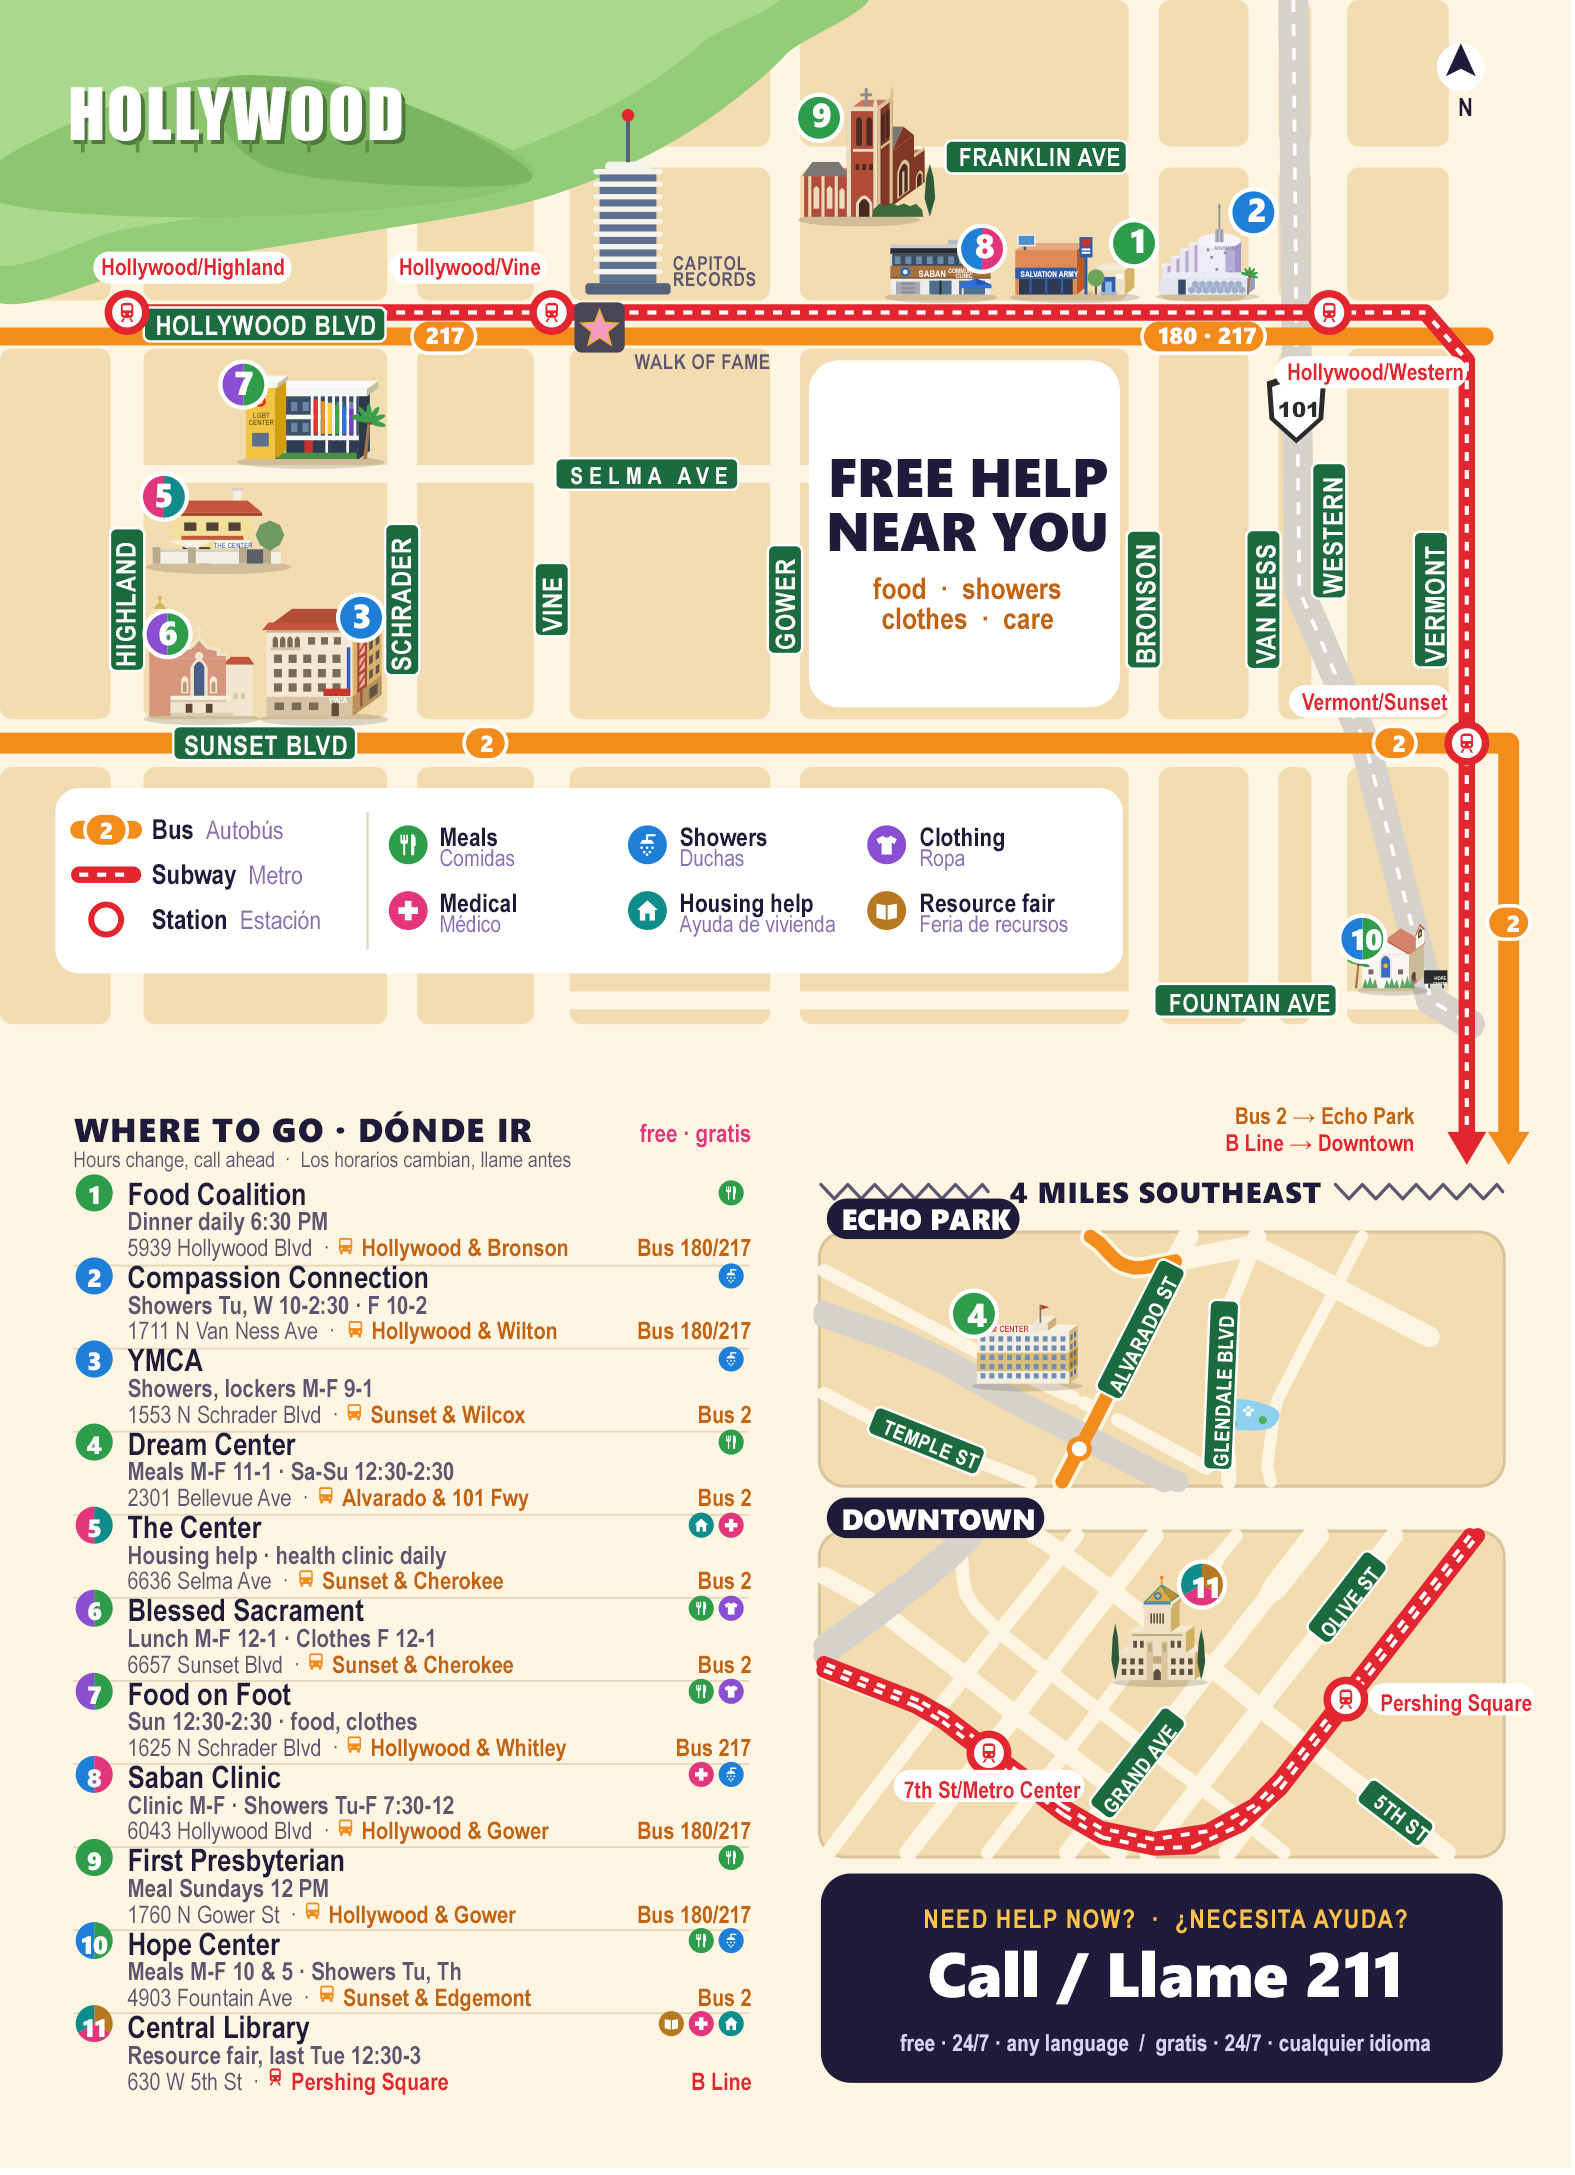
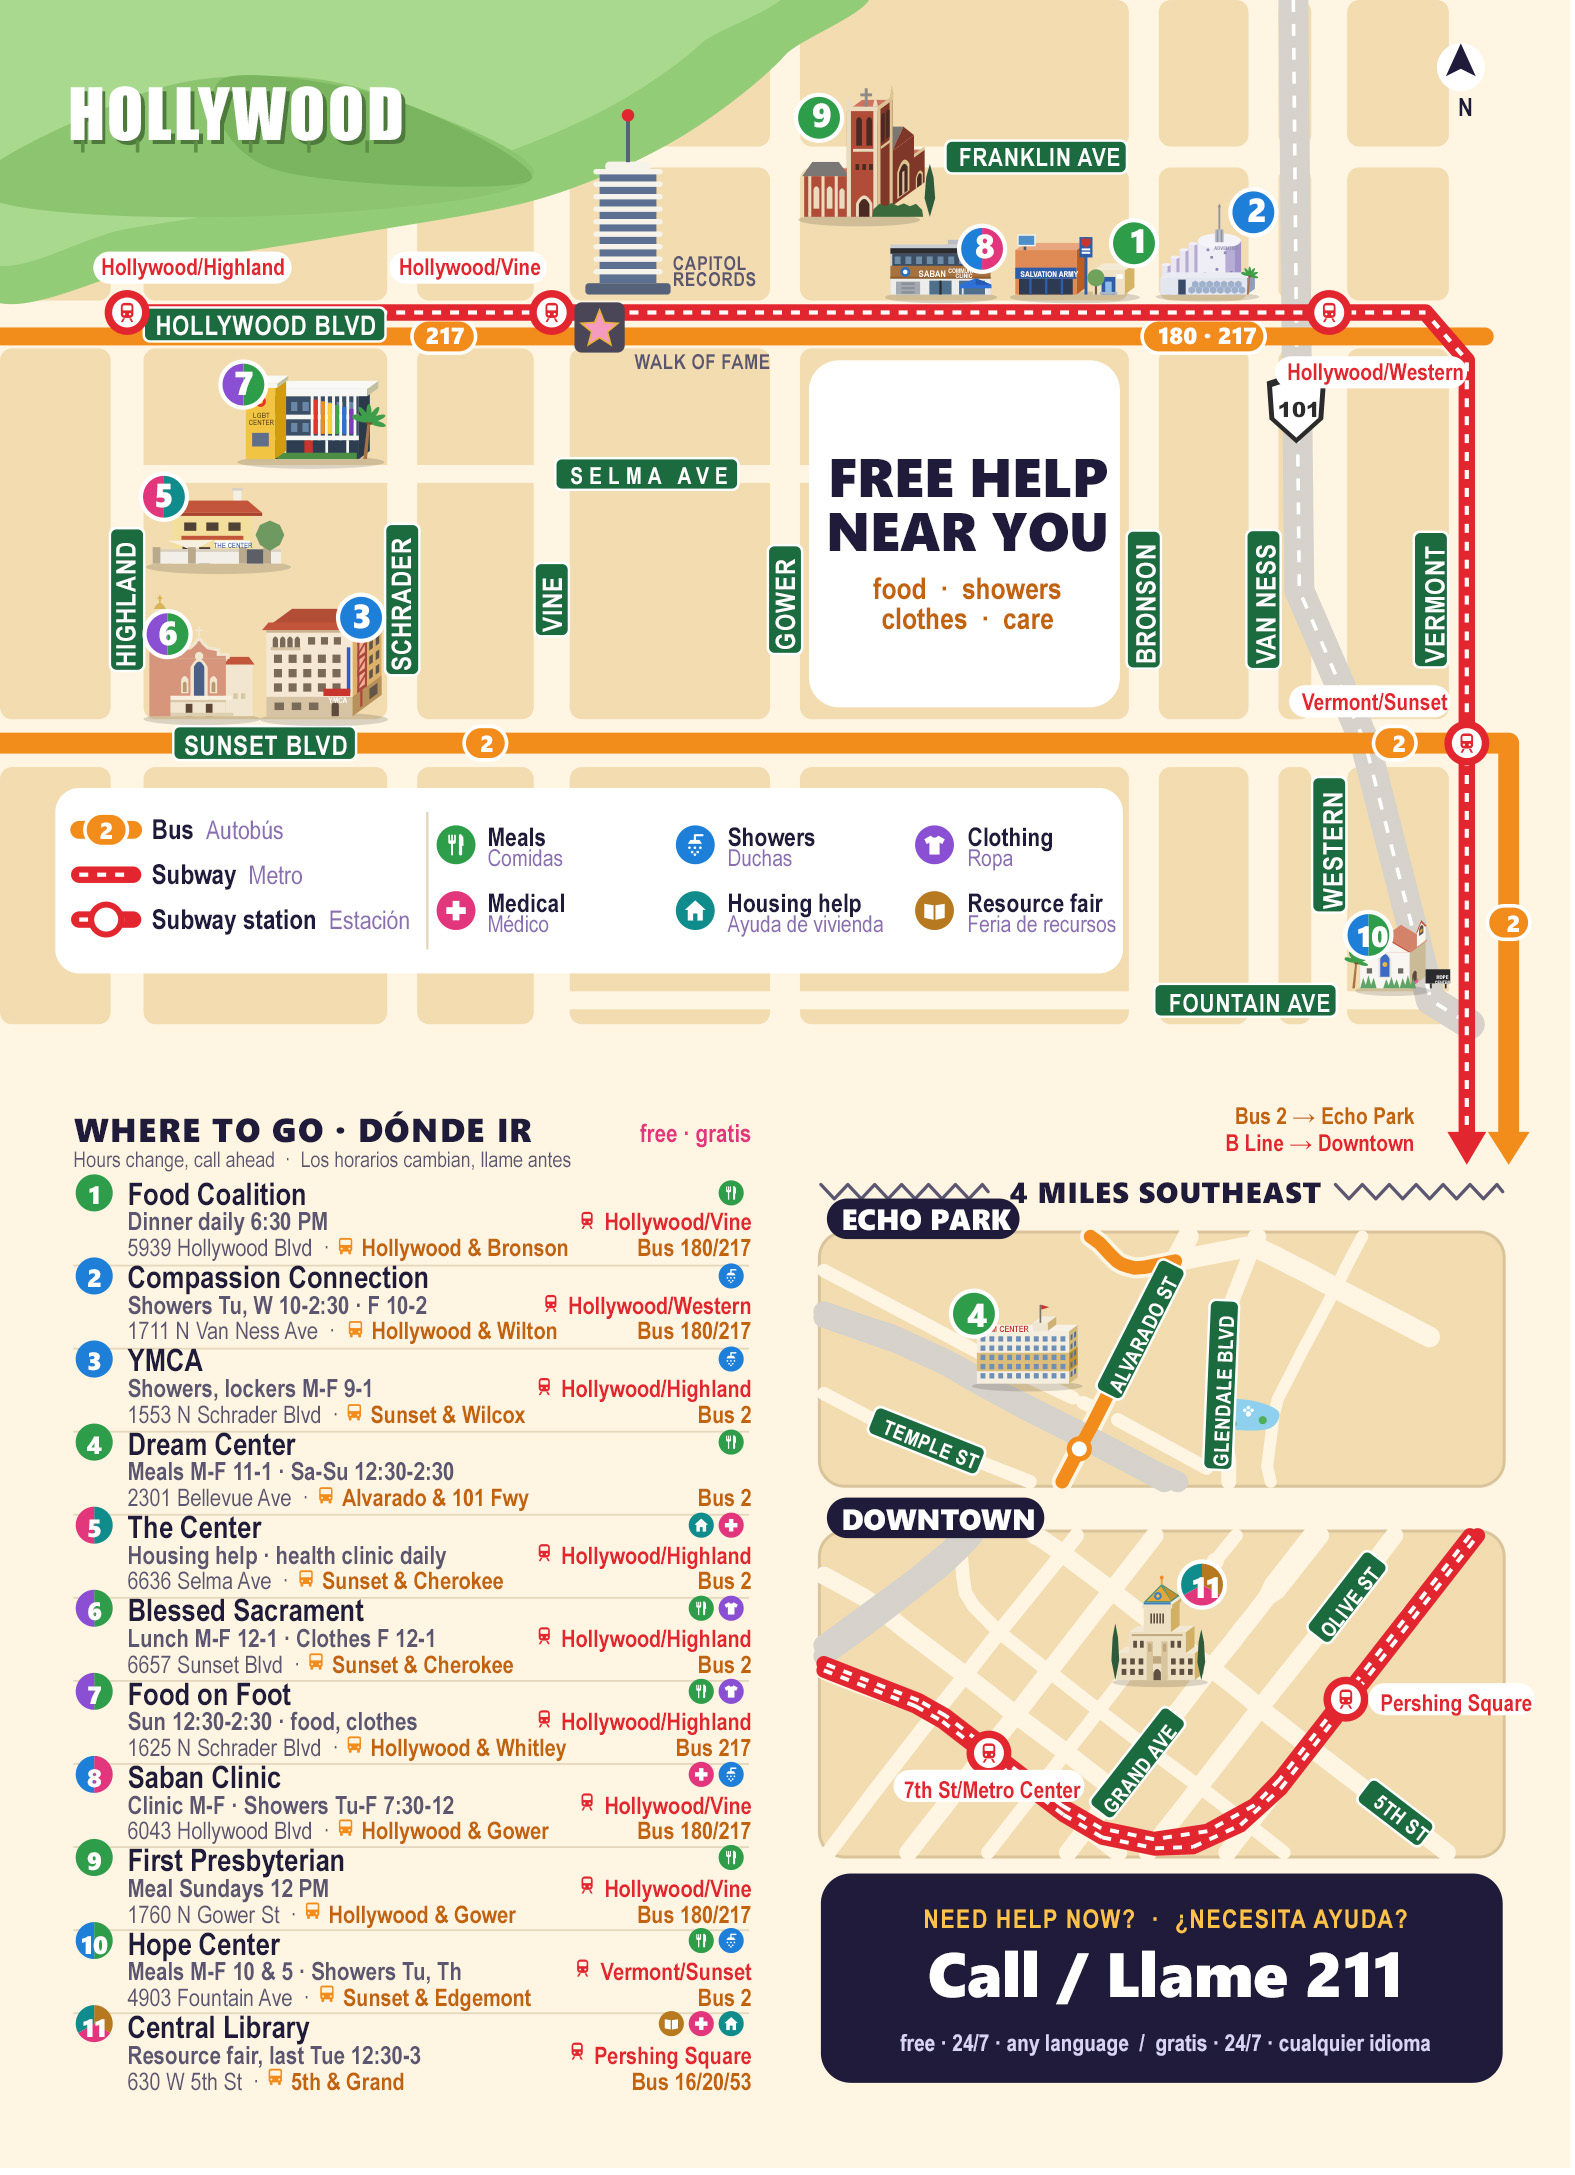
Map v8.2: subway station key, Western label, bigger Hope Center, bus + subway per place

diff --git a/index.html b/index.html
@@ -39,77 +39,77 @@ footer{color:var(--muted);font-size:13px;text-align:center;margin-top:24px}
   <div class="chips"><span class="chip" style="--c:#2E9D4A">Meals</span></div>
   <p class="hours">Dinner M-F 6:30-8 PM; Sat-Sun 6:30-7:30 PM</p>
   <p class="addr">5939 Hollywood Blvd, LA 90028</p>
-  <p class="stop">Nearest stop: <b>Bus 180/217 · Hollywood &amp; Bronson</b></p>
+  <p class="stop">Bus: <b>Hollywood &amp; Bronson</b> (Bus 180/217)</p><p class="stop">Subway: <b>Hollywood/Vine</b> (B Line, about 10 min walk)</p>
   <div class="btns"><a class="btn" href="https://www.google.com/maps/dir/?api=1&destination=5939%20Hollywood%20Blvd%2C%20Los%20Angeles%2C%20CA%2090028" target="_blank" rel="noopener">Directions</a><a class="btn" href="tel:3234622032">Call (323) 462-2032</a><a class="btn ghost" href="https://hofoco.org" target="_blank" rel="noopener">Website</a></div>
 </article><article class="place" id="p2">
   <h3><span class="num" style="background:#1E7FD8">2</span>Compassion Connection</h3>
   <div class="chips"><span class="chip" style="--c:#1E7FD8">Showers</span></div>
   <p class="hours">Showers Tue-Wed 10-2:30, Fri 10-2</p>
   <p class="addr">1711 N Van Ness Ave, LA 90028</p>
-  <p class="stop">Nearest stop: <b>Bus 180/217 · Hollywood &amp; Wilton</b></p>
+  <p class="stop">Bus: <b>Hollywood &amp; Wilton</b> (Bus 180/217)</p><p class="stop">Subway: <b>Hollywood/Western</b> (B Line, about 10 min walk)</p>
   <div class="btns"><a class="btn" href="https://www.google.com/maps/dir/?api=1&destination=1711%20N%20Van%20Ness%20Ave%2C%20Los%20Angeles%2C%20CA%2090028" target="_blank" rel="noopener">Directions</a><a class="btn ghost" href="https://compassionconnections.org" target="_blank" rel="noopener">Website</a></div>
 </article><article class="place" id="p3">
   <h3><span class="num" style="background:#1E7FD8">3</span>Hollywood YMCA</h3>
   <div class="chips"><span class="chip" style="--c:#1E7FD8">Showers</span></div>
   <p class="hours">Showers, bathrooms, lockers M-F 9-1</p>
   <p class="addr">1553 N Schrader Blvd, LA 90028</p>
-  <p class="stop">Nearest stop: <b>Bus 2 · Sunset &amp; Wilcox</b></p>
+  <p class="stop">Bus: <b>Sunset &amp; Wilcox</b> (Bus 2)</p><p class="stop">Subway: <b>Hollywood/Highland</b> (B Line, about 10 min walk)</p>
   <div class="btns"><a class="btn" href="https://www.google.com/maps/dir/?api=1&destination=1553%20N%20Schrader%20Blvd%2C%20Los%20Angeles%2C%20CA%2090028" target="_blank" rel="noopener">Directions</a><a class="btn" href="tel:3234674161">Call (323) 467-4161</a><a class="btn ghost" href="https://ymcala.org" target="_blank" rel="noopener">Website</a></div>
 </article><article class="place" id="p4">
   <h3><span class="num" style="background:#2E9D4A">4</span>The Dream Center</h3>
   <div class="chips"><span class="chip" style="--c:#2E9D4A">Meals</span></div>
   <p class="hours">Meals M-F 11-1, Sat-Sun 12:30-2:30</p>
   <p class="addr">2301 Bellevue Ave, LA 90026</p>
-  <p class="stop">Nearest stop: <b>Bus 2 · Alvarado &amp; 101 Fwy</b></p>
+  <p class="stop">Bus: <b>Alvarado &amp; 101 Fwy</b> (Bus 2)</p>
   <div class="btns"><a class="btn" href="https://www.google.com/maps/dir/?api=1&destination=2301%20Bellevue%20Ave%2C%20Los%20Angeles%2C%20CA%2090026" target="_blank" rel="noopener">Directions</a><a class="btn" href="tel:2132737014">Call (213) 273-7014</a></div>
 </article><article class="place" id="p5">
   <h3><span class="num" style="background:linear-gradient(90deg, #0F8C8C 0% 50%, #E2367C 50% 100%)">5</span>The Center in Hollywood</h3>
   <div class="chips"><span class="chip" style="--c:#0F8C8C">Housing help</span><span class="chip" style="--c:#E2367C">Medical</span></div>
   <p class="hours">Housing resources, daily health clinic</p>
   <p class="addr">6636 Selma Ave, LA 90028</p>
-  <p class="stop">Nearest stop: <b>Bus 2 · Sunset &amp; Cherokee</b></p>
+  <p class="stop">Bus: <b>Sunset &amp; Cherokee</b> (Bus 2)</p><p class="stop">Subway: <b>Hollywood/Highland</b> (B Line, about 8 min walk)</p>
   <div class="btns"><a class="btn" href="https://www.google.com/maps/dir/?api=1&destination=6636%20Selma%20Ave%2C%20Los%20Angeles%2C%20CA%2090028" target="_blank" rel="noopener">Directions</a><a class="btn" href="tel:3233783225">Call (323) 378-3225</a><a class="btn ghost" href="https://thecenterinhollywood.org" target="_blank" rel="noopener">Website</a></div>
 </article><article class="place" id="p6">
   <h3><span class="num" style="background:linear-gradient(90deg, #2E9D4A 0% 50%, #8A4FD3 50% 100%)">6</span>Blessed Sacrament: Genevieve&#x27;s Garden + Project Ropa</h3>
   <div class="chips"><span class="chip" style="--c:#2E9D4A">Meals</span><span class="chip" style="--c:#8A4FD3">Clothing</span></div>
   <p class="hours">Lunch M-F 12-1; clothing and hygiene Fri 12-1</p>
   <p class="addr">6657 Sunset Blvd, LA 90028</p>
-  <p class="stop">Nearest stop: <b>Bus 2 · Sunset &amp; Cherokee</b></p>
+  <p class="stop">Bus: <b>Sunset &amp; Cherokee</b> (Bus 2)</p><p class="stop">Subway: <b>Hollywood/Highland</b> (B Line, about 8 min walk)</p>
   <div class="btns"><a class="btn" href="https://www.google.com/maps/dir/?api=1&destination=6657%20Sunset%20Blvd%2C%20Los%20Angeles%2C%20CA%2090028" target="_blank" rel="noopener">Directions</a><a class="btn" href="tel:3235002766">Call (323) 500-2766</a></div>
 </article><article class="place" id="p7">
   <h3><span class="num" style="background:linear-gradient(90deg, #2E9D4A 0% 50%, #8A4FD3 50% 100%)">7</span>Food on Foot</h3>
   <div class="chips"><span class="chip" style="--c:#2E9D4A">Meals</span><span class="chip" style="--c:#8A4FD3">Clothing</span></div>
   <p class="hours">Sundays 12:30-2:30: food, clothing, hygiene</p>
   <p class="addr">1625 N Schrader Blvd, LA 90028</p>
-  <p class="stop">Nearest stop: <b>Bus 217 · Hollywood &amp; Whitley</b></p>
+  <p class="stop">Bus: <b>Hollywood &amp; Whitley</b> (Bus 217)</p><p class="stop">Subway: <b>Hollywood/Highland</b> (B Line, about 10 min walk)</p>
   <div class="btns"><a class="btn" href="https://www.google.com/maps/dir/?api=1&destination=1625%20N%20Schrader%20Blvd%2C%20Los%20Angeles%2C%20CA%2090028" target="_blank" rel="noopener">Directions</a><a class="btn" href="tel:3108600022">Call (310) 860-0022</a><a class="btn ghost" href="https://foodonfoot.org" target="_blank" rel="noopener">Website</a></div>
 </article><article class="place" id="p8">
   <h3><span class="num" style="background:linear-gradient(90deg, #E2367C 0% 50%, #1E7FD8 50% 100%)">8</span>Saban Clinic Hollywood</h3>
   <div class="chips"><span class="chip" style="--c:#E2367C">Medical</span><span class="chip" style="--c:#1E7FD8">Showers</span></div>
   <p class="hours">Medical M 7:30-8:30 PM, Tu-F 7:30-5; showers Tu-F 7:30-12; dental, counseling</p>
   <p class="addr">6043 Hollywood Blvd, LA 90028</p>
-  <p class="stop">Nearest stop: <b>Bus 180/217 · Hollywood &amp; Gower</b></p>
+  <p class="stop">Bus: <b>Hollywood &amp; Gower</b> (Bus 180/217)</p><p class="stop">Subway: <b>Hollywood/Vine</b> (B Line, about 6 min walk)</p>
   <div class="btns"><a class="btn" href="https://www.google.com/maps/dir/?api=1&destination=6043%20Hollywood%20Blvd%2C%20Los%20Angeles%2C%20CA%2090028" target="_blank" rel="noopener">Directions</a><a class="btn" href="tel:3236531990">Call (323) 653-1990</a><a class="btn ghost" href="https://thesabanfreeclinic.org" target="_blank" rel="noopener">Website</a></div>
 </article><article class="place" id="p9">
   <h3><span class="num" style="background:#2E9D4A">9</span>First Presbyterian Church of Hollywood</h3>
   <div class="chips"><span class="chip" style="--c:#2E9D4A">Meals</span></div>
   <p class="hours">Meal Sundays 12 PM</p>
   <p class="addr">1760 N Gower St, LA 90028</p>
-  <p class="stop">Nearest stop: <b>Bus 180/217 · Hollywood &amp; Gower</b></p>
+  <p class="stop">Bus: <b>Hollywood &amp; Gower</b> (Bus 180/217)</p><p class="stop">Subway: <b>Hollywood/Vine</b> (B Line, about 6 min walk)</p>
   <div class="btns"><a class="btn" href="https://www.google.com/maps/dir/?api=1&destination=1760%20N%20Gower%20St%2C%20Los%20Angeles%2C%20CA%2090028" target="_blank" rel="noopener">Directions</a><a class="btn" href="tel:3234637161">Call (323) 463-7161</a></div>
 </article><article class="place" id="p10">
   <h3><span class="num" style="background:linear-gradient(90deg, #2E9D4A 0% 50%, #1E7FD8 50% 100%)">10</span>The Hope Center</h3>
   <div class="chips"><span class="chip" style="--c:#2E9D4A">Meals</span><span class="chip" style="--c:#1E7FD8">Showers</span></div>
   <p class="hours">Meals M-F 10 AM and 5 PM; showers Tue/Thu 9:30-11:30</p>
   <p class="addr">4903 Fountain Ave, LA 90029</p>
-  <p class="stop">Nearest stop: <b>Bus 2 · Sunset &amp; Edgemont</b></p>
+  <p class="stop">Bus: <b>Sunset &amp; Edgemont</b> (Bus 2)</p><p class="stop">Subway: <b>Vermont/Sunset</b> (B Line, about 9 min walk)</p>
   <div class="btns"><a class="btn" href="https://www.google.com/maps/dir/?api=1&destination=4903%20Fountain%20Ave%2C%20Los%20Angeles%2C%20CA%2090029" target="_blank" rel="noopener">Directions</a><a class="btn" href="tel:3238831812">Call (323) 883-1812</a></div>
 </article><article class="place" id="p11">
   <h3><span class="num" style="background:linear-gradient(90deg, #B7791F 0% 33%, #E2367C 33% 67%, #0F8C8C 67% 100%)">11</span>LA Central Library</h3>
   <div class="chips"><span class="chip" style="--c:#B7791F">Resource fair</span><span class="chip" style="--c:#E2367C">Medical</span><span class="chip" style="--c:#0F8C8C">Housing help</span></div>
   <p class="hours">Last Tuesday of the month 12:30-3</p>
   <p class="addr">630 W 5th St, LA 90071</p>
-  <p class="stop">Nearest stop: <b>B Line · Pershing Square</b></p>
+  <p class="stop">Bus: <b>5th &amp; Grand</b> (Bus 16/20/53)</p><p class="stop">Subway: <b>Pershing Square</b> (B Line, about 6 min walk)</p>
   <div class="btns"><a class="btn" href="https://www.google.com/maps/dir/?api=1&destination=630%20W%205th%20St%2C%20Los%20Angeles%2C%20CA%2090071" target="_blank" rel="noopener">Directions</a><a class="btn" href="tel:2132287000">Call (213) 228-7000</a><a class="btn ghost" href="https://lapl.org" target="_blank" rel="noopener">Website</a></div>
 </article>
 <h2>Who we are</h2>
